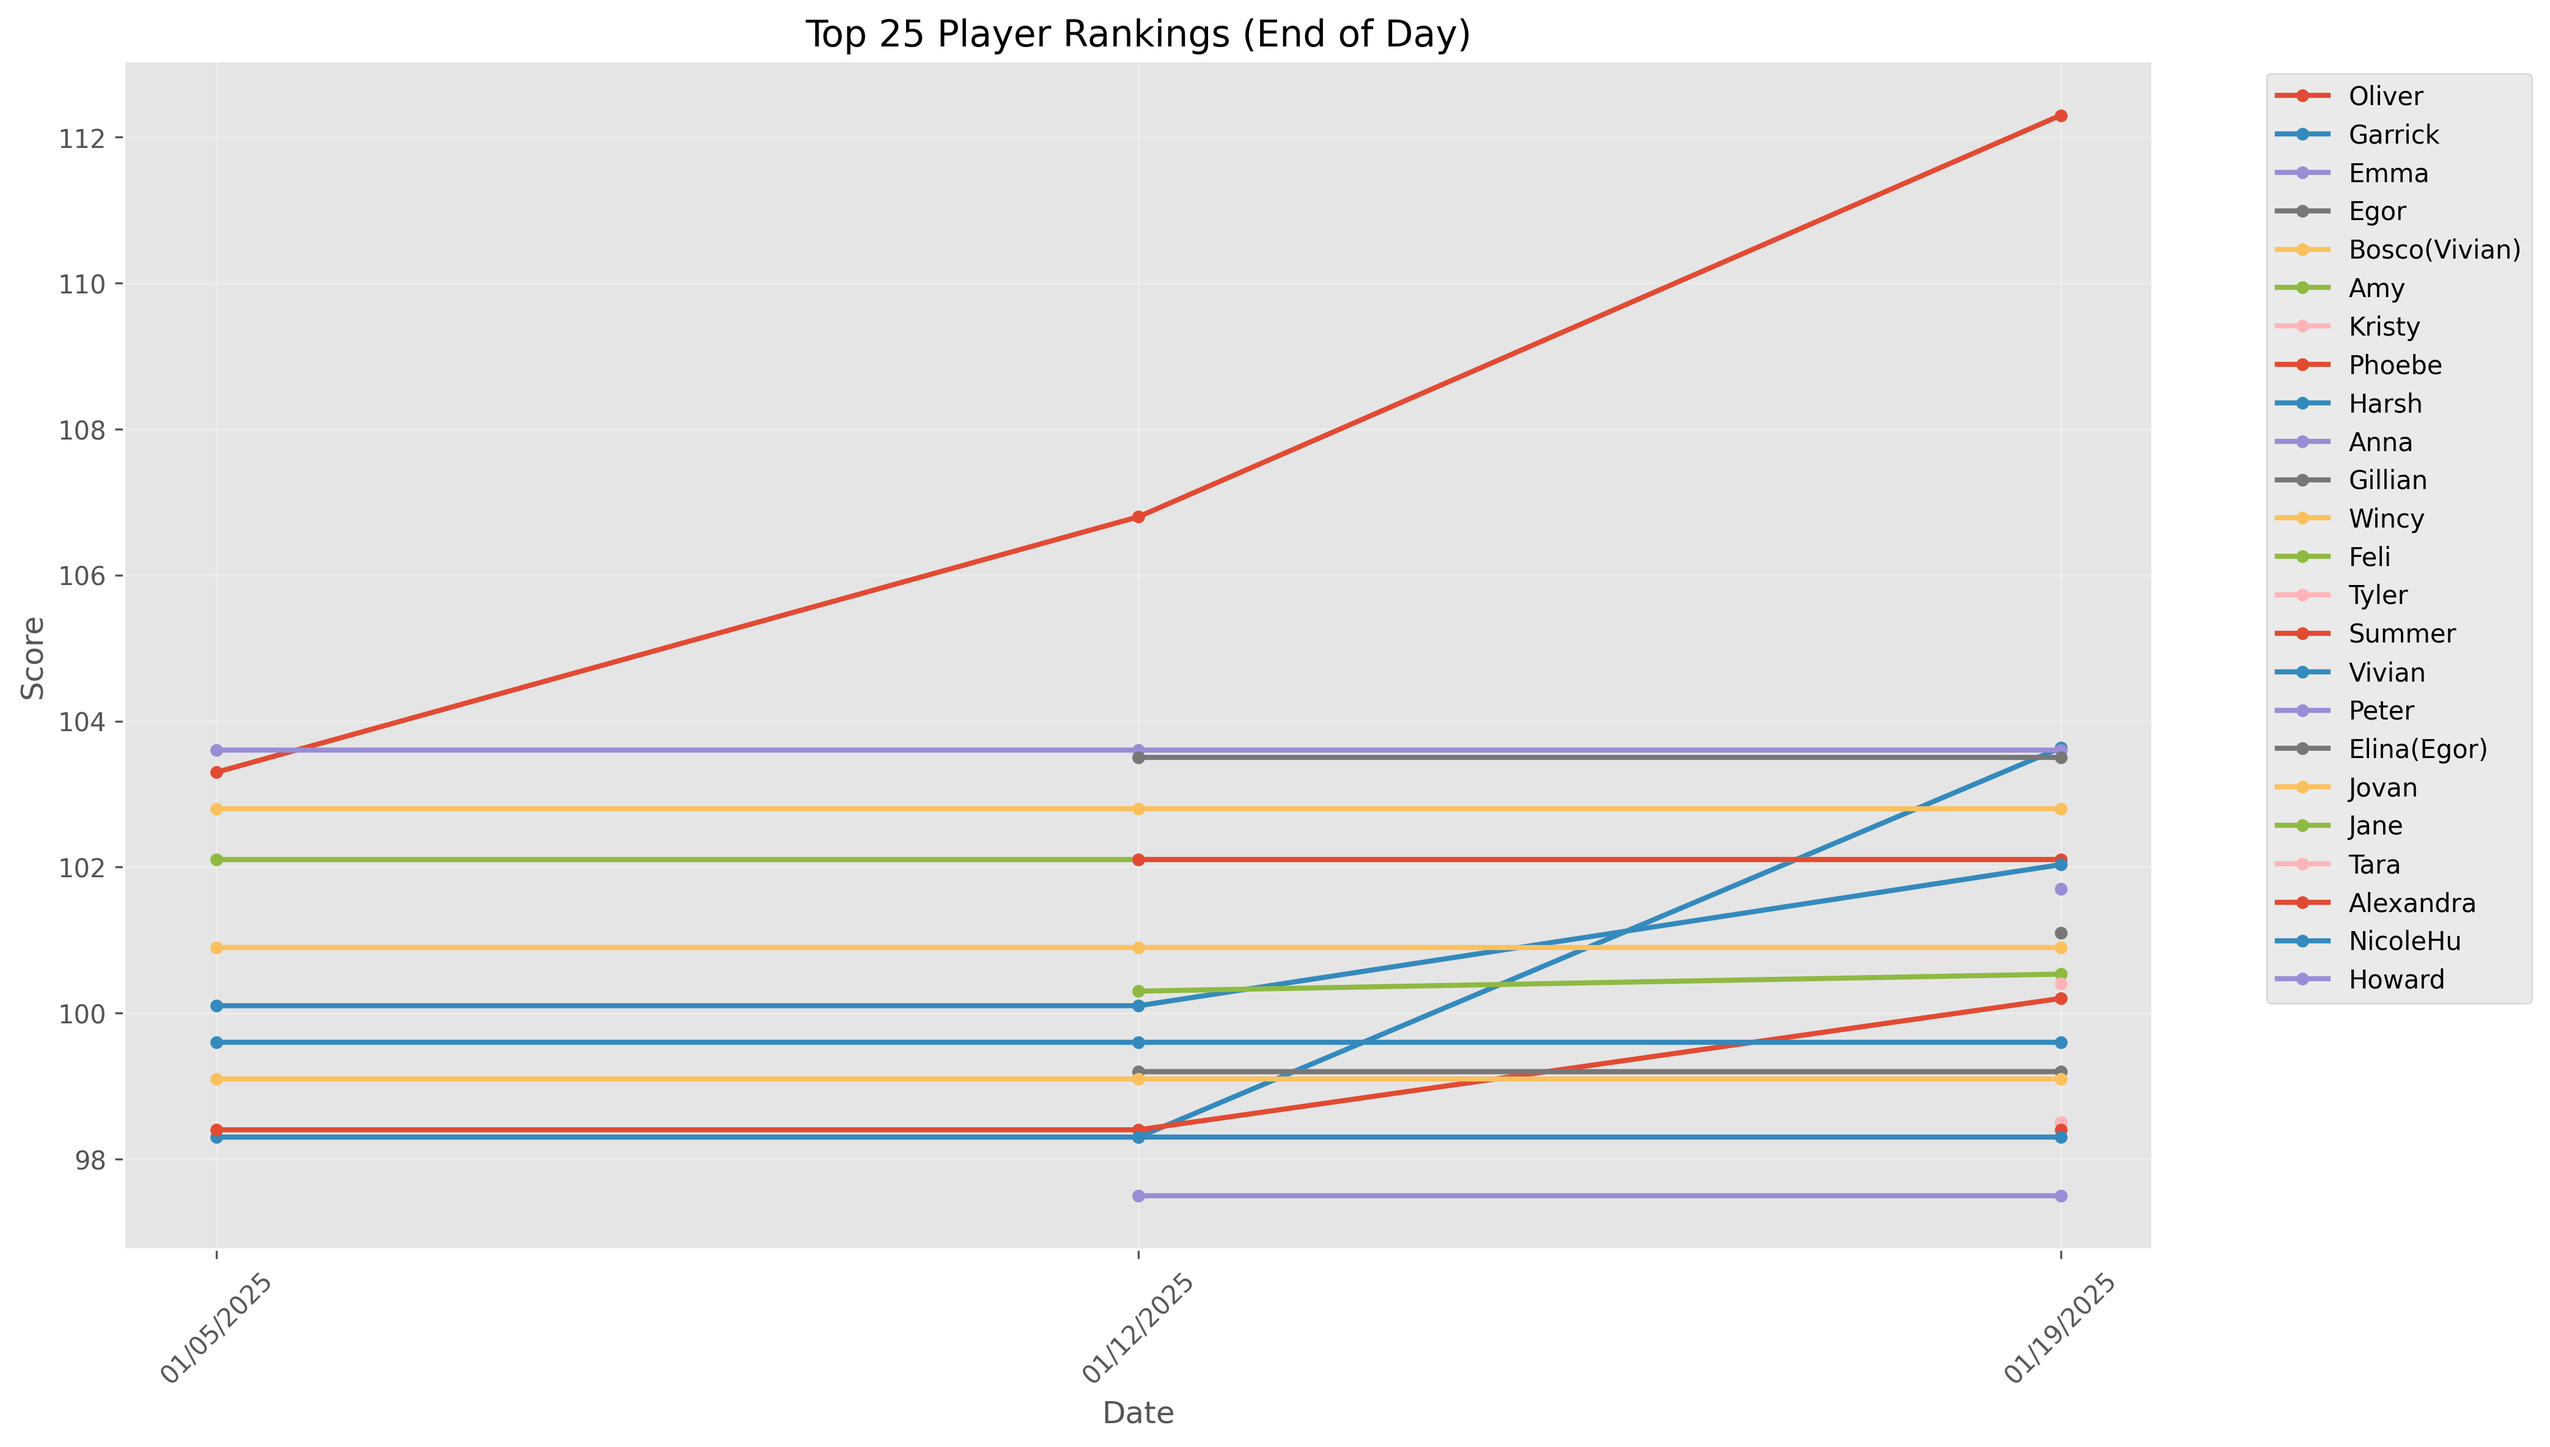
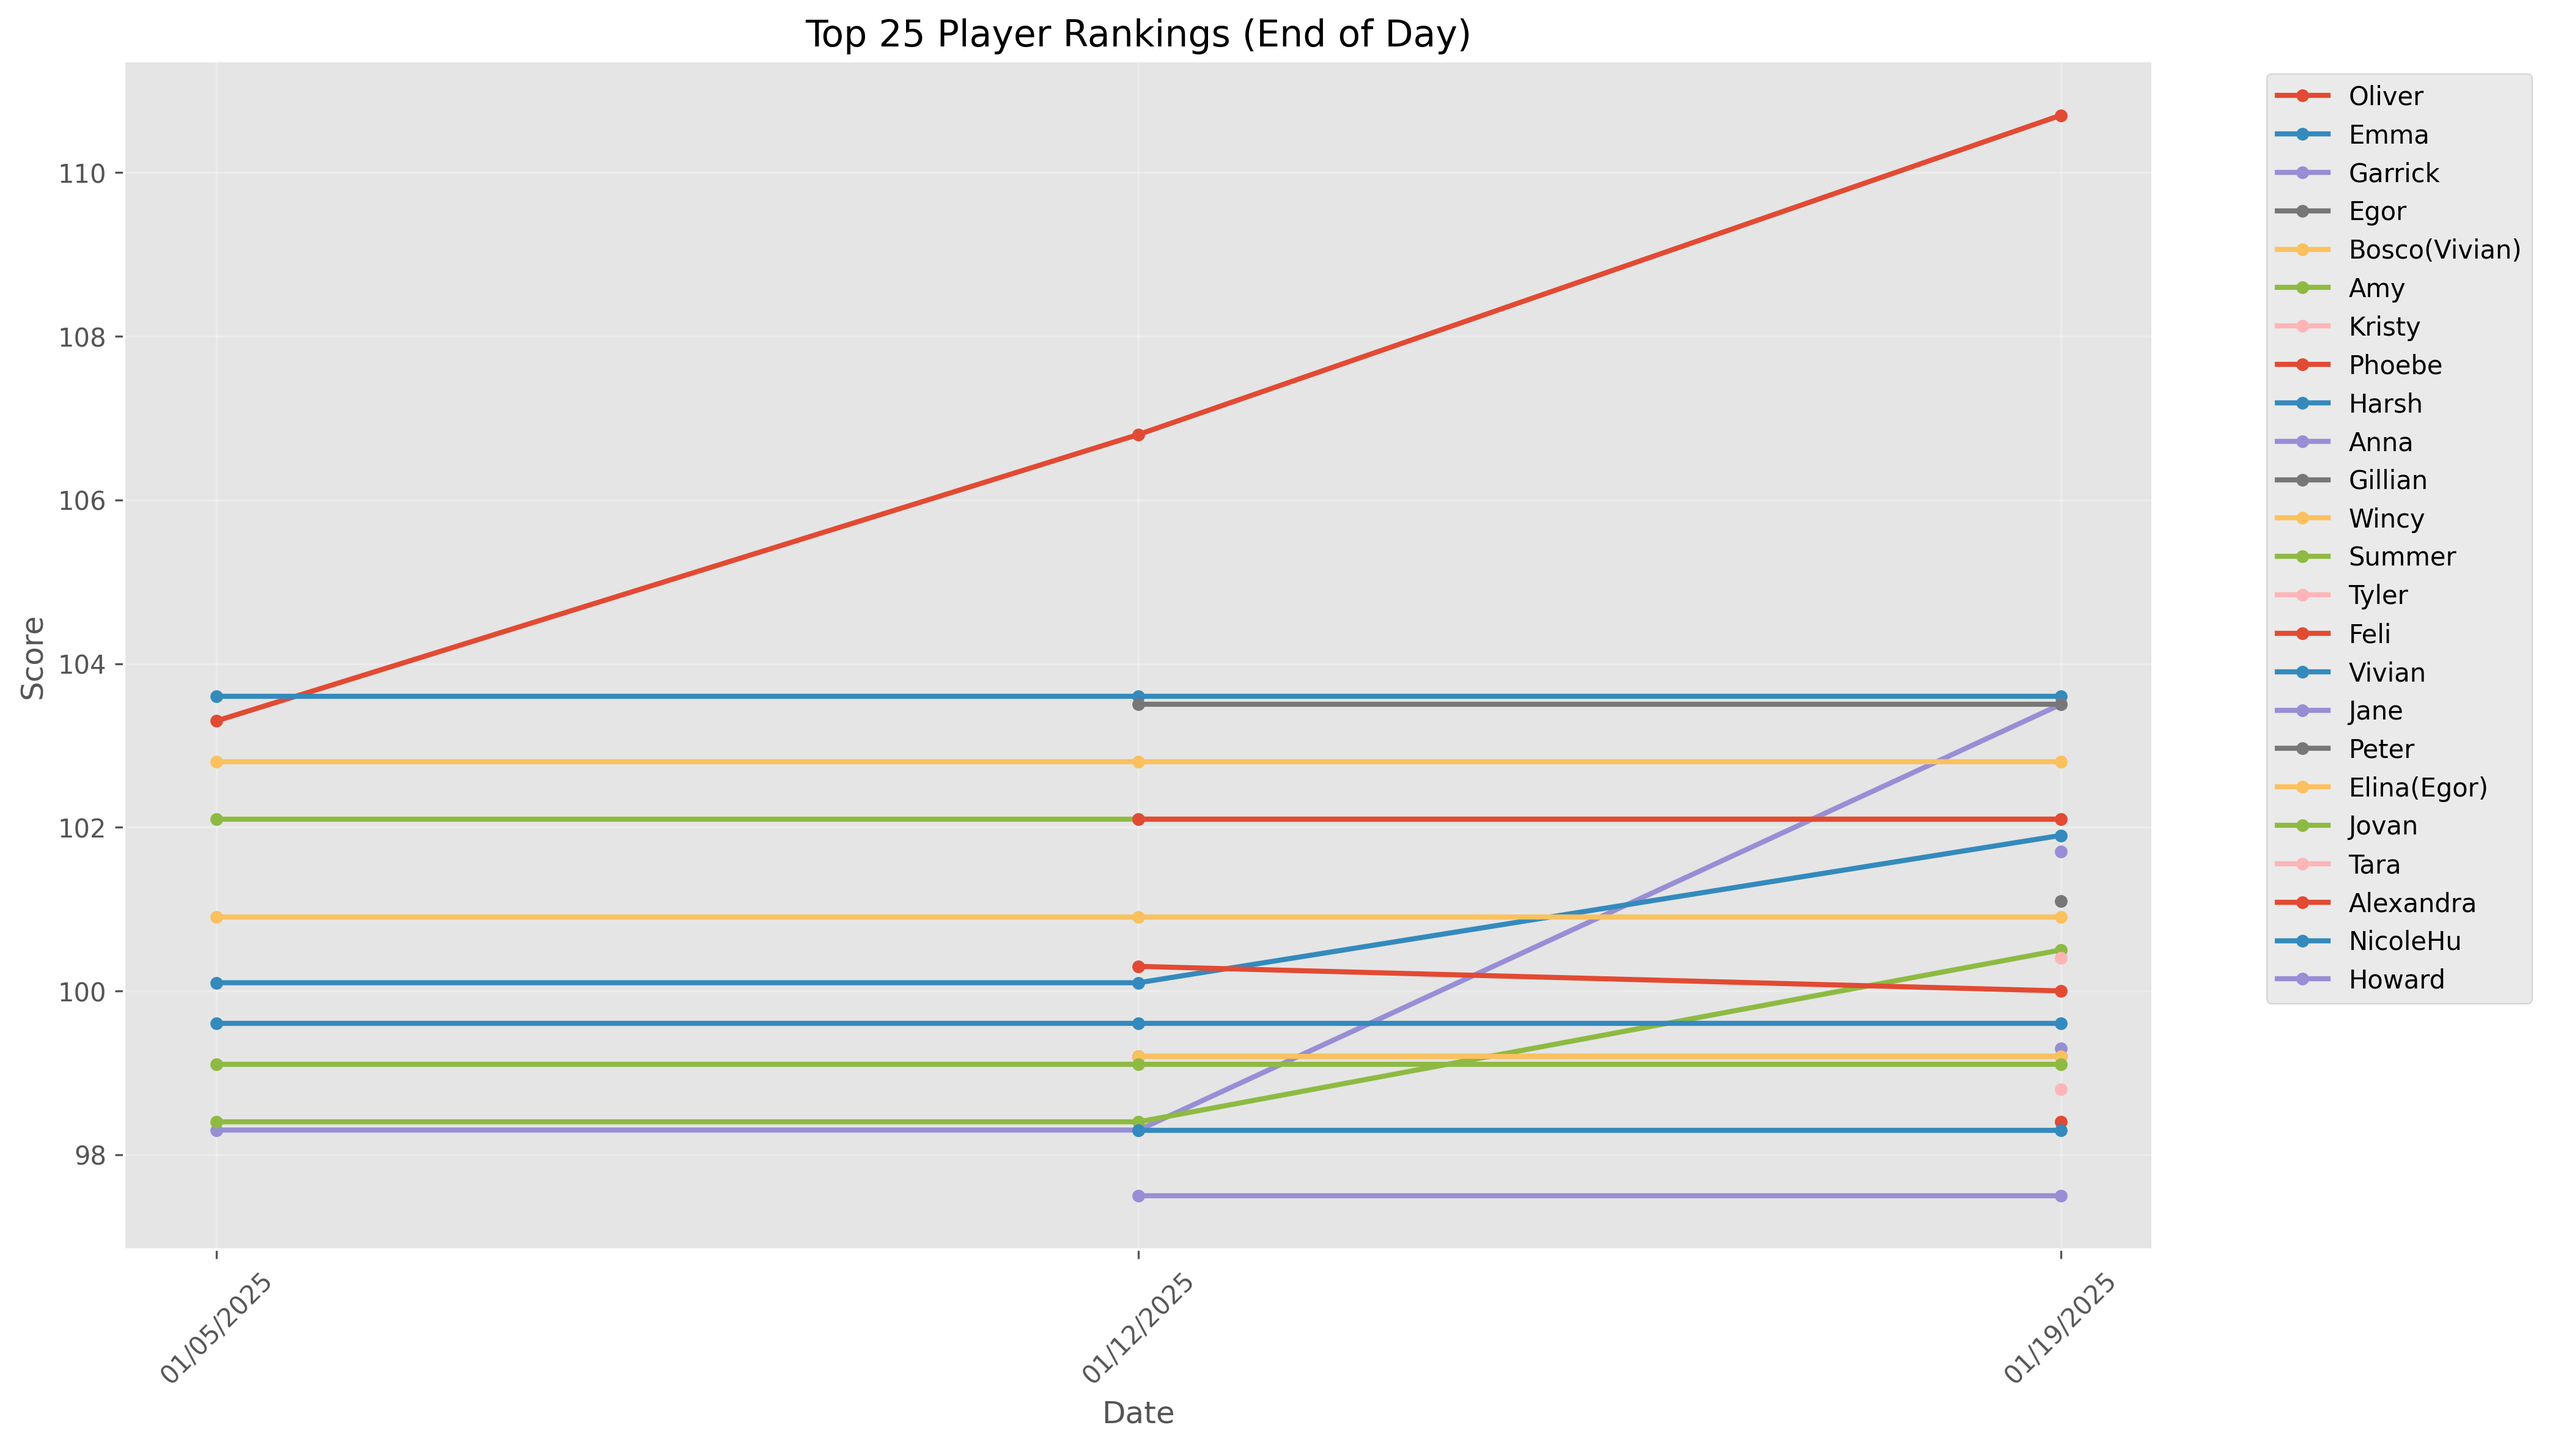
update rankings

diff --git a/parse_results.py b/parse_results.py
@@ -29,7 +29,7 @@ GAME_CONFIG = {
     "Night of the Ninja": (GameType.INDIVIDUAL_WINNER, 1.0),
     "Clank": (GameType.INDIVIDUAL_WINNER, 1.0),
 
-    "Bang": (GameType.INDIVIDUAL_WINNER, 1.0),
+    "Bang": (GameType.INDIVIDUAL_WINNER, 0.60),
     "Exploding Kittens": (GameType.INDIVIDUAL_WINNER, 0.30),
 
     "Secret Hitler": (GameType.TEAM_BALANCED, 1.0),

diff --git a/README.md b/README.md
@@ -4,27 +4,27 @@
 
 | Player | Score | Wins | Losses | Win % |
 | --- | --- | --- | --- | --- |
-| Oliver | 112.30 | 9 | 4 | 69% |
-| Garrick | 103.63 | 6 | 7 | 46% |
+| Oliver | 110.70 | 9 | 4 | 69% |
 | Emma | 103.60 | 3 | 0 | 100% |
+| Garrick | 103.50 | 6 | 7 | 46% |
 | Egor | 103.50 | 3 | 1 | 75% |
 | Bosco(Vivian) | 102.80 | 3 | 1 | 75% |
 | Amy | 102.10 | 2 | 1 | 67% |
 | Kristy | 102.10 | 2 | 1 | 67% |
 | Phoebe | 102.10 | 2 | 2 | 50% |
-| Harsh | 102.03 | 3 | 3 | 50% |
+| Harsh | 101.90 | 3 | 3 | 50% |
 | Anna | 101.70 | 1 | 0 | 100% |
 | Gillian | 101.10 | 2 | 1 | 67% |
 | Wincy | 100.90 | 1 | 1 | 50% |
-| Feli | 100.53 | 2 | 3 | 40% |
+| Summer | 100.50 | 2 | 4 | 33% |
 | Tyler | 100.40 | 1 | 1 | 50% |
-| Summer | 100.20 | 2 | 4 | 33% |
+| Feli | 100.00 | 2 | 3 | 40% |
 | Vivian | 99.60 | 1 | 2 | 33% |
+| Jane | 99.30 | 1 | 4 | 20% |
 | Peter | 99.20 | 0 | 1 | 0% |
 | Elina(Egor) | 99.20 | 0 | 1 | 0% |
 | Jovan | 99.10 | 1 | 2 | 33% |
-| Jane | 98.50 | 1 | 4 | 20% |
-| Tara | 98.50 | 1 | 4 | 20% |
+| Tara | 98.80 | 1 | 4 | 20% |
 | Alexandra | 98.40 | 0 | 2 | 0% |
 | NicoleHu | 98.30 | 0 | 3 | 0% |
 | Howard | 97.50 | 0 | 4 | 0% |
@@ -97,8 +97,8 @@
 | Gillian | 2 | 0 | 100% |
 | Harsh | 2 | 1 | 67% |
 | Garrick | 3 | 2 | 60% |
-| Summer | 2 | 2 | 50% |
 | Vivian | 1 | 0 | 100% |
+| Summer | 2 | 2 | 50% |
 | Kristy | 1 | 0 | 100% |
 | Egor | 1 | 0 | 100% |
 | Amy | 1 | 1 | 50% |
